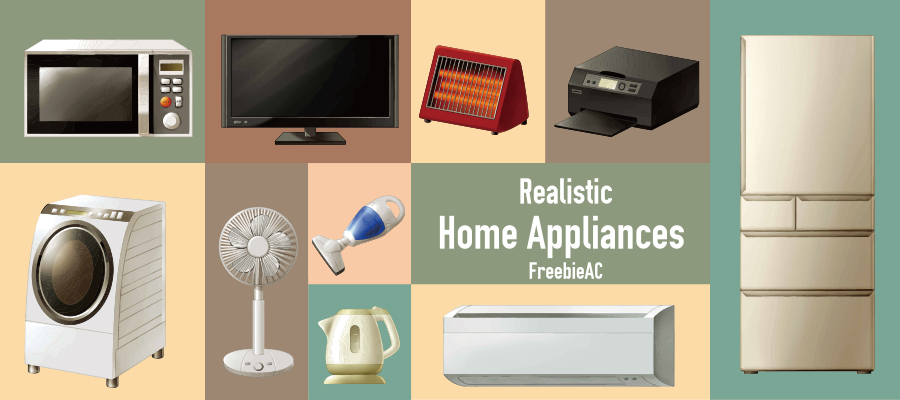
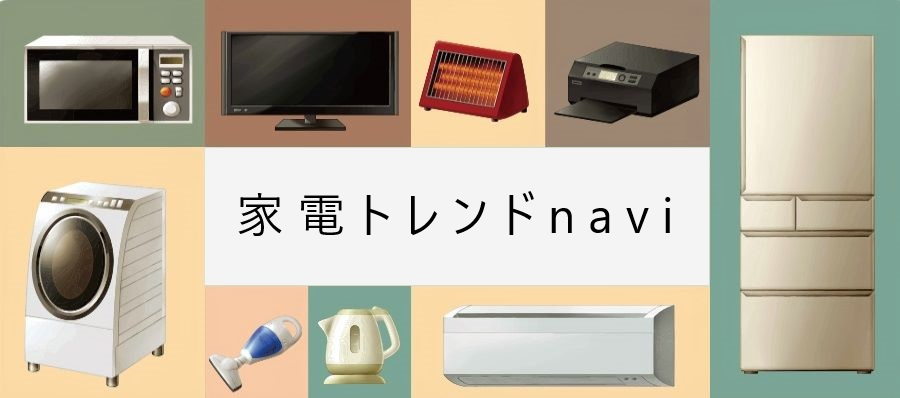
レイアウト変更

diff --git a/app/javascript/stylesheets/application.scss b/app/javascript/stylesheets/application.scss
@@ -2,7 +2,7 @@
 
 // 全体の背景色
 body {
-  background-color: #fff9f4;
+  background-color: #F4F4F4;
 }
 
 // フッター
@@ -14,6 +14,12 @@ footer {
   width: 100%;
   height: 80px;
   text-align:center;
+  background-color: #FFFFFF;
+}
+
+// ヘッダー
+header {
+  background-color: #FFFFFF;
 }
 
 
